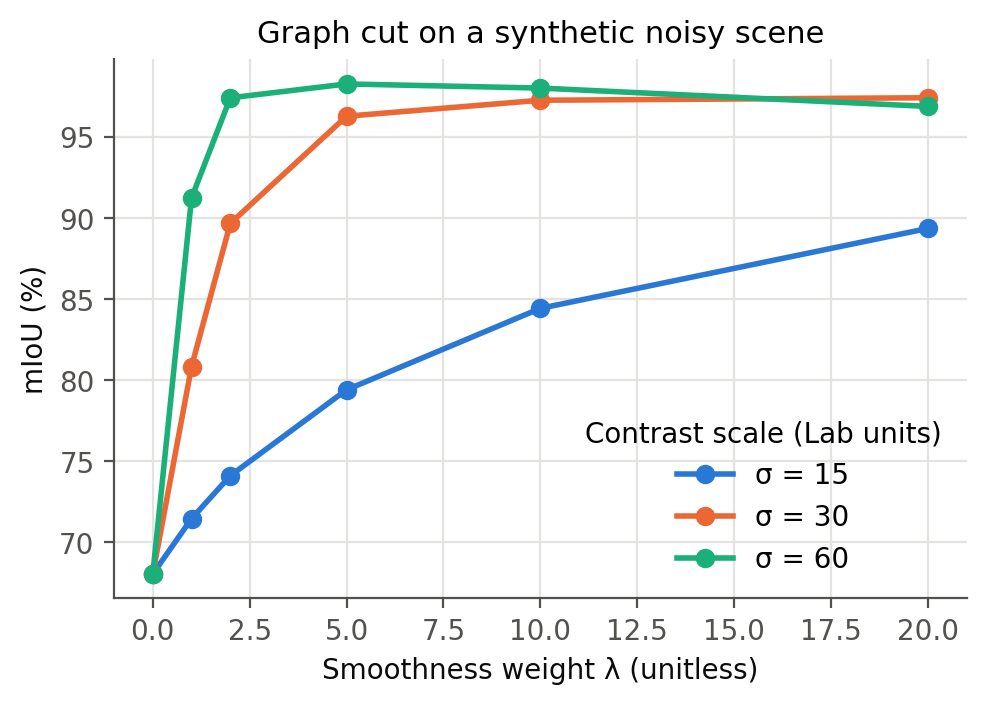
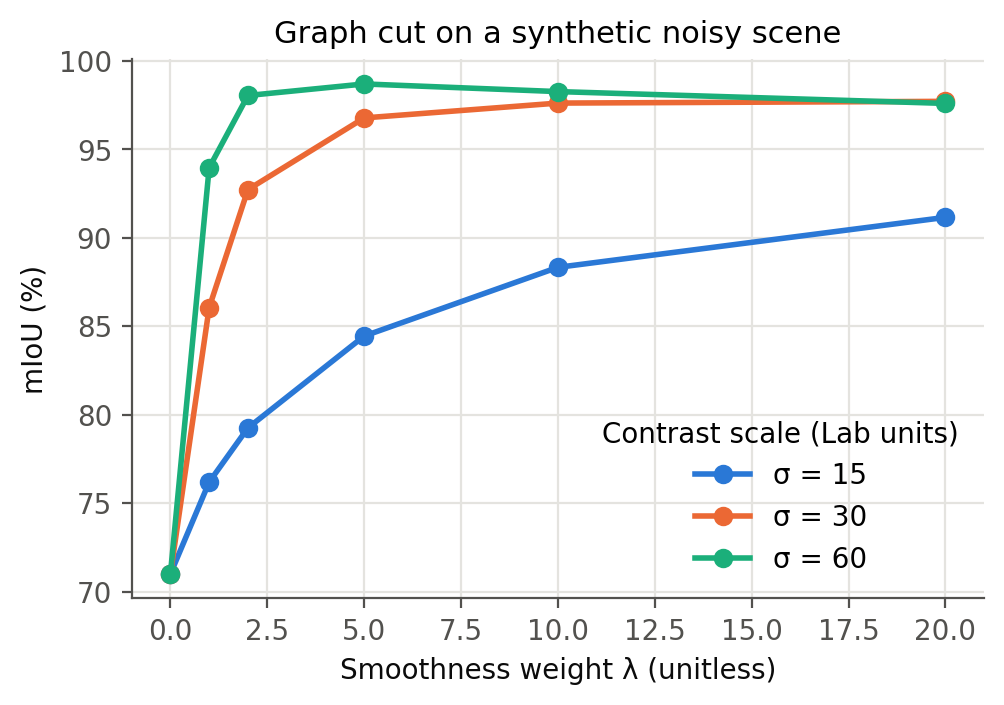
add texture feature and tuned flood bias to graph-cut unaries

diff --git a/src/methods/classical.py b/src/methods/classical.py
@@ -1,9 +1,10 @@
-"""Classical graph-cut flood segmentation with our own Boykov-Kolmogorov max-flow."""
+"""Classical graph-cut flood segmentation: colour/texture GMM unaries, contrast-sensitive Potts, own BK max-flow."""
 from collections import deque
 from pathlib import Path
 
 import numpy as np
 from PIL import Image
+from scipy.ndimage import uniform_filter
 
 from src.utils.image import resize_long, resize_to
 from src.utils.paths import CHECKPOINT_DIR
@@ -12,6 +13,7 @@ FREE, SOURCE, SINK = 0, 1, 2
 TERMINAL, ORPHAN, NONE = -1, -2, -3
 INF = float("inf")
 WORK_SIDE = 256
+TEXTURE_WINDOW = 7
 DEFAULT_CHECKPOINT = CHECKPOINT_DIR / "classical.npz"
 
 
@@ -231,12 +233,20 @@ def gmm_nll(x: np.ndarray, gmm: dict) -> np.ndarray:
     return -(top + np.log(np.exp(logs - top).sum(0)))
 
 
-def unary(lab: np.ndarray, model: dict) -> tuple[np.ndarray, np.ndarray]:
-    """Per-pixel costs of labeling non-flood (D0) and flood (D1)."""
-    x = lab.reshape(-1, 3)
-    d0 = gmm_nll(x, model["background"]) - np.log(1 - model["prior"])
-    d1 = gmm_nll(x, model["flood"]) - np.log(model["prior"])
-    return d0.reshape(lab.shape[:2]), d1.reshape(lab.shape[:2])
+def features(image: np.ndarray) -> tuple[np.ndarray, np.ndarray]:
+    """Downscale to WORK_SIDE and return (Lab + local lightness std) features and the Lab image."""
+    lab = rgb_to_lab(resize_long(image, WORK_SIDE))
+    light = lab[..., 0]
+    var = uniform_filter(light**2, TEXTURE_WINDOW) - uniform_filter(light, TEXTURE_WINDOW) ** 2
+    return np.dstack([lab, np.sqrt(np.maximum(var, 0))]), lab
+
+
+def unary(feats: np.ndarray, model: dict) -> tuple[np.ndarray, np.ndarray]:
+    """Per-pixel costs of labeling non-flood (D0) and flood (D1); bias > 0 favours flood."""
+    x = feats.reshape(-1, feats.shape[-1])
+    d0 = gmm_nll(x, model["background"])
+    d1 = gmm_nll(x, model["flood"]) - model["bias"]
+    return d0.reshape(feats.shape[:2]), d1.reshape(feats.shape[:2])
 
 
 def pairwise(lab: np.ndarray, lam: float, sigma: float) -> tuple[np.ndarray, np.ndarray]:
@@ -246,33 +256,33 @@ def pairwise(lab: np.ndarray, lam: float, sigma: float) -> tuple[np.ndarray, np.
     return lam * np.exp(-dr / (2 * sigma**2)), lam * np.exp(-dd / (2 * sigma**2))
 
 
-def segment(lab: np.ndarray, model: dict) -> np.ndarray:
-    """Minimize the graph-cut energy on a Lab image; returns a bool flood mask."""
-    d0, d1 = unary(lab, model)
+def segment(image: np.ndarray, model: dict) -> np.ndarray:
+    """Minimize the graph-cut energy at WORK_SIDE; returns a bool flood mask."""
+    feats, lab = features(image)
+    d0, d1 = unary(feats, model)
     low = np.minimum(d0, d1)
     right, down = pairwise(lab, model["lam"], model["sigma"])
     _, flood = grid_maxflow(d0 - low, d1 - low, right, down)
     return flood
 
 
-def fit(pairs, k: int = 5, per_image: int = 2000, lam: float = 5.0, sigma: float = 30.0, seed: int = 0) -> dict:
-    """Learn flood and background colour GMMs from (image, mask) training pairs."""
+def fit(pairs, k: int = 5, per_image: int = 2000, lam: float = 20.0, sigma: float = 10.0, bias: float = 0.0,
+        seed: int = 0) -> dict:
+    """Learn flood and background feature GMMs from (image, mask) training pairs."""
     rng = np.random.default_rng(seed)
     pixels = {0: [], 1: []}
-    flood_px = total_px = 0
     for image, mask in pairs:
-        lab = rgb_to_lab(resize_long(image, WORK_SIDE)).reshape(-1, 3)
+        feats = features(image)[0]
+        feats = feats.reshape(-1, feats.shape[-1])
         small = resize_long(mask, WORK_SIDE, Image.NEAREST).ravel()
-        flood_px += int(small.sum())
-        total_px += small.size
         for c in (0, 1):
             idx = np.flatnonzero(small == c)
             if len(idx):
-                pixels[c].append(lab[rng.choice(idx, min(per_image, len(idx)), replace=False)])
+                pixels[c].append(feats[rng.choice(idx, min(per_image, len(idx)), replace=False)])
     return {
         "background": fit_gmm(np.concatenate(pixels[0]), k, seed),
         "flood": fit_gmm(np.concatenate(pixels[1]), k, seed),
-        "prior": flood_px / total_px,
+        "bias": bias,
         "lam": lam,
         "sigma": sigma,
     }
@@ -282,18 +292,18 @@ def save(model: dict, path: str | Path = DEFAULT_CHECKPOINT) -> None:
     """Write model parameters to an .npz file."""
     Path(path).parent.mkdir(parents=True, exist_ok=True)
     flat = {f"{c}_{key}": v for c in ("background", "flood") for key, v in model[c].items()}
-    np.savez(path, prior=model["prior"], lam=model["lam"], sigma=model["sigma"], **flat)
+    np.savez(path, bias=model["bias"], lam=model["lam"], sigma=model["sigma"], **flat)
 
 
 def load(checkpoint_path: str | None = None, device: str = "cpu") -> dict:
-    """Load fitted colour models and smoothness parameters from an .npz file."""
+    """Load fitted feature models, bias, and smoothness parameters from an .npz file."""
     data = np.load(checkpoint_path or DEFAULT_CHECKPOINT)
     model = {c: {key: data[f"{c}_{key}"] for key in ("weights", "means", "covs")} for c in ("background", "flood")}
-    model.update(prior=float(data["prior"]), lam=float(data["lam"]), sigma=float(data["sigma"]))
+    model.update(bias=float(data["bias"]), lam=float(data["lam"]), sigma=float(data["sigma"]))
     return model
 
 
 def predict(model, image: np.ndarray) -> np.ndarray:
     """Segment at WORK_SIDE resolution and upsample the mask to the input size."""
-    flood = segment(rgb_to_lab(resize_long(image, WORK_SIDE)), model)
+    flood = segment(image, model)
     return resize_to(flood.astype(np.uint8), *image.shape[:2])
